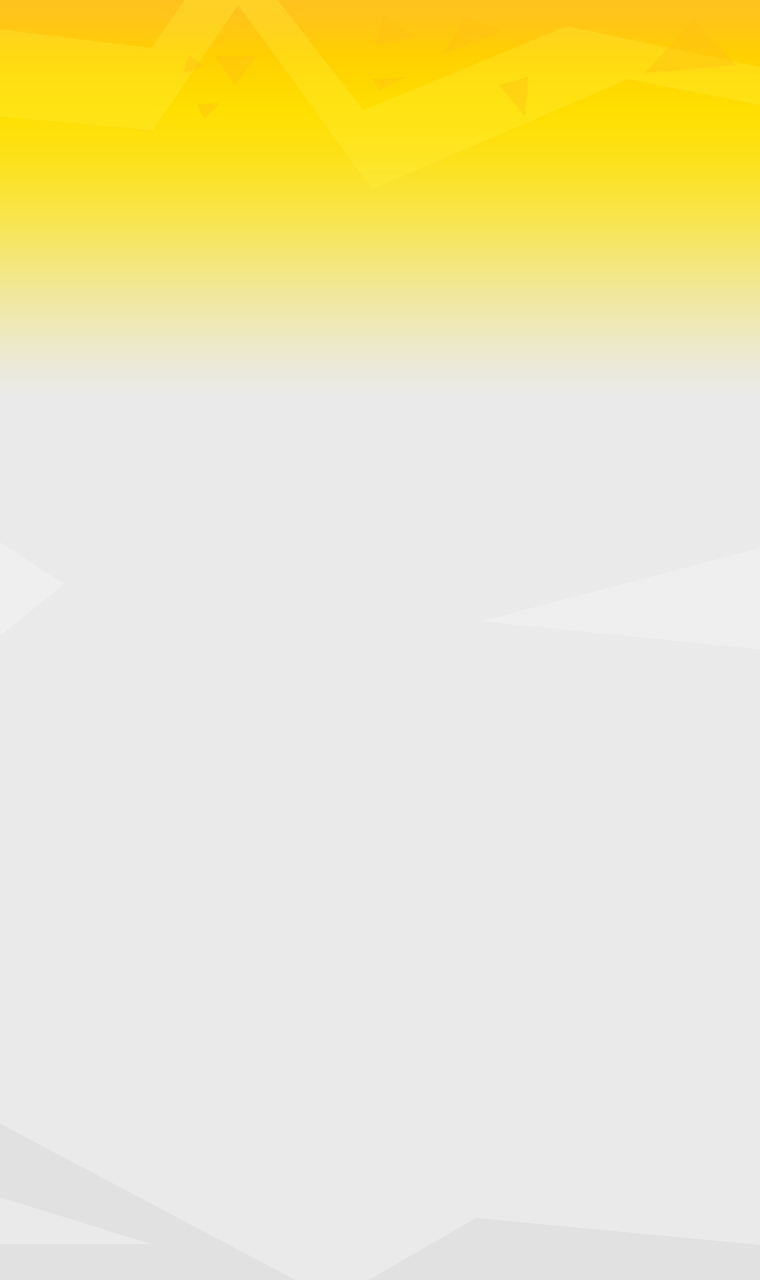
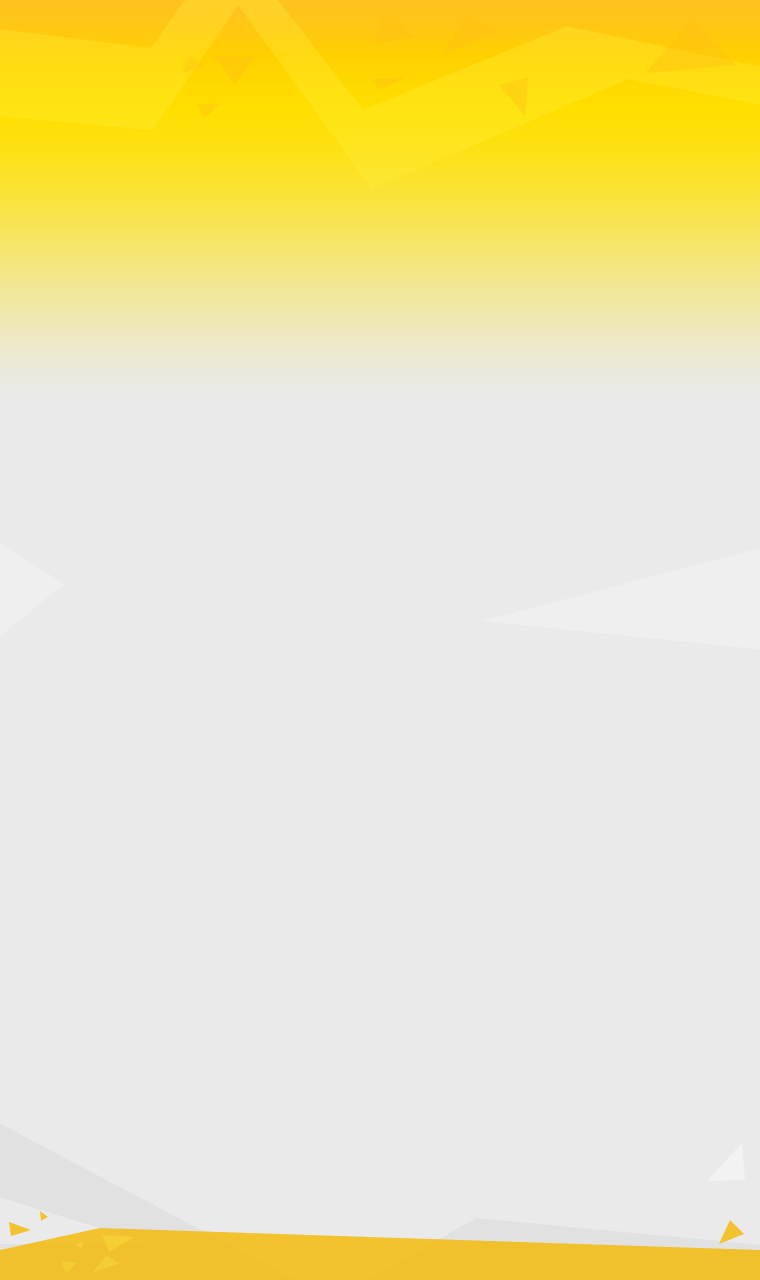
替换底的样式

Changed region(s): [[0.0, 0.9375, 1.0, 1.0]]

diff --git a/src/views/index.vue b/src/views/index.vue
@@ -52,7 +52,7 @@
     #level{
         color: white;
         margin: 6px;
-        background-image: url('.././assets/propertybg.png');
+        background-image: url('.././assets/p1bg.png');
         background-size: 60% 100%;
         background-repeat:no-repeat;
         background-position-x: center;
